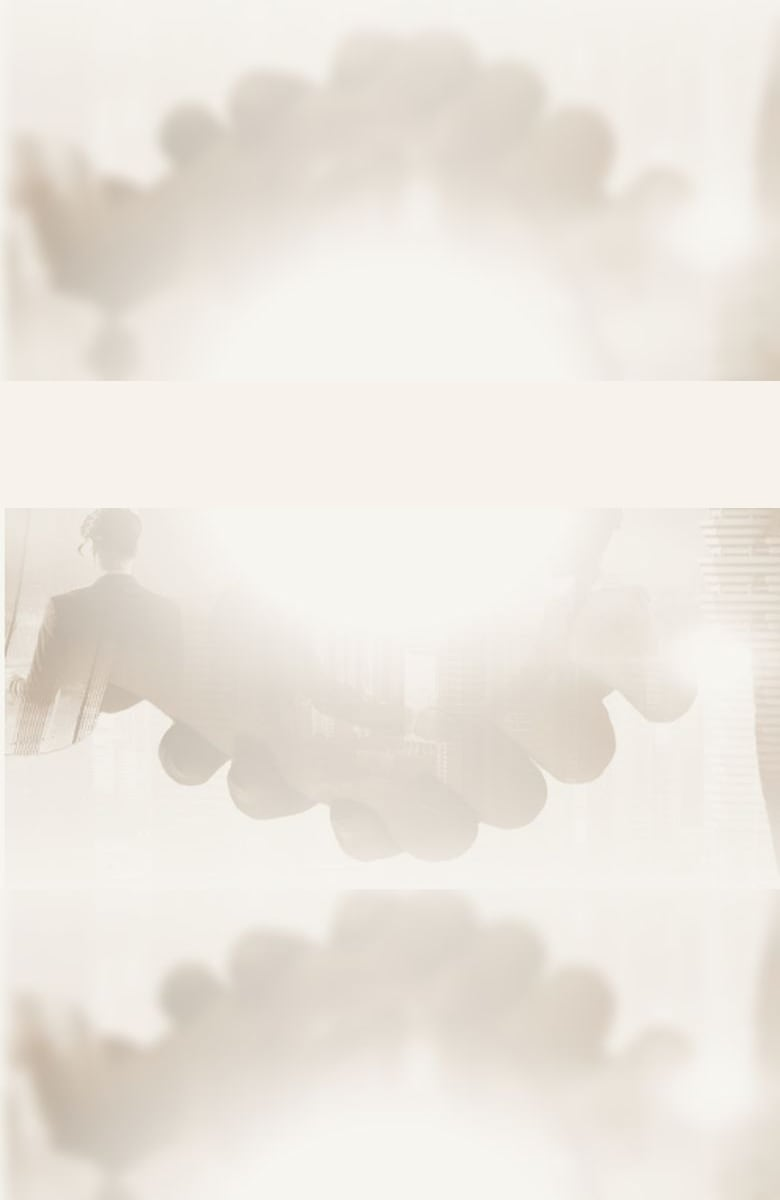
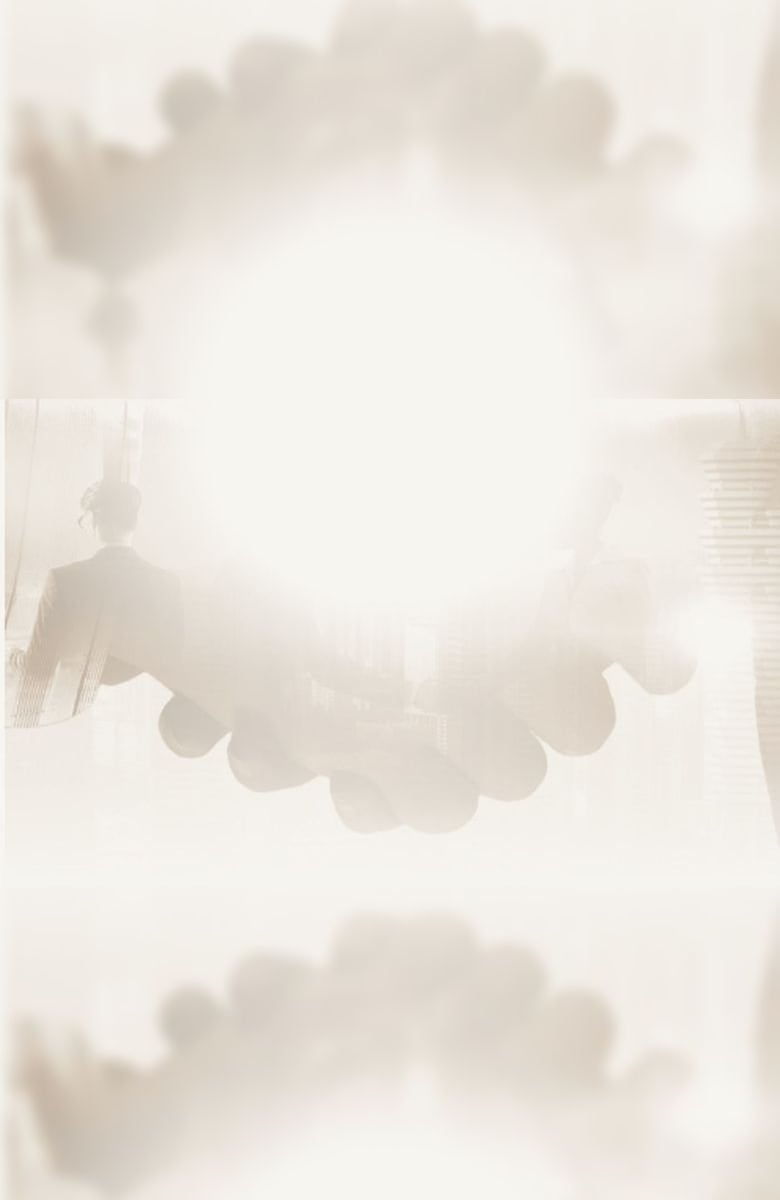
הפריים שסימנת נפרס על הפתיחה, במחשב ובנייד
הצילום נחתך לאותו מסגור בדיוק שסימנת: בלי השטח הריק העליון, ביחס
1.6 לרוחב. נלקח מהמקור ברזולוציה מלאה ולא מהתמונה ששלחת, כדי שלא
יהיה טשטוש בהגדלה: 1400 רוחב במקום 762.

מאותו מסגור נבנה גם הקנבס האנכי לנייד, כך שלחיצת היד והדמויות
מופיעות שם באותו גודל יחסי כמו במחשב.

ניגודיות הכותרת: 14.4 במחשב, 14.7 בנייד.

diff --git a/index.html b/index.html
@@ -1509,8 +1509,8 @@ html.skin-f .bc .about > .wrap { position:relative; z-index:1; }
   html.skin-f .bc .hero { position:relative; overflow:hidden; background:var(--surface-light-bg); }
   html.skin-f .bc .hero::before {
     content:""; display:block; position:absolute; inset:0; z-index:0; pointer-events:none;
-    background:url(media/hero-bg-warm.jpg) center 72% / cover no-repeat;
-    background:image-set(url(media/hero-bg-warm.webp) type("image/webp"), url(media/hero-bg-warm.jpg) type("image/jpeg")) center 72% / cover no-repeat;
+    background:url(media/hero-bg-warm.jpg) center center / cover no-repeat;
+    background:image-set(url(media/hero-bg-warm.webp) type("image/webp"), url(media/hero-bg-warm.jpg) type("image/jpeg")) center center / cover no-repeat;
     opacity:1; filter:contrast(1.14) saturate(1.06);
   }
   html.skin-f .bc .hero::after {
@@ -1529,10 +1529,8 @@ html.skin-f .bc .about > .wrap { position:relative; z-index:1; }
        לזו שבמחשב: הדמויות בצדדים ולחיצת היד מתחת לטקסט. */
     html.skin-f .bc .hero::before {
       opacity:1; background-position:center center;
-      background:url(media/hero-bg-warm.jpg) center bottom / 100% auto no-repeat;
-      background:image-set(url(media/hero-bg-warm.webp) type("image/webp"), url(media/hero-bg-warm.jpg) type("image/jpeg")) center bottom / 100% auto no-repeat;
-      -webkit-mask-image:linear-gradient(180deg, transparent 0, #000 18%, #000 100%);
-      mask-image:linear-gradient(180deg, transparent 0, #000 18%, #000 100%);
+      background:url(media/hero-bg-m.jpg) center center / cover no-repeat;
+      background:image-set(url(media/hero-bg-m.webp) type("image/webp"), url(media/hero-bg-m.jpg) type("image/jpeg")) center center / cover no-repeat;
       filter:contrast(1.14) saturate(1.06);
     }
     html.skin-f .bc .hero::after {
